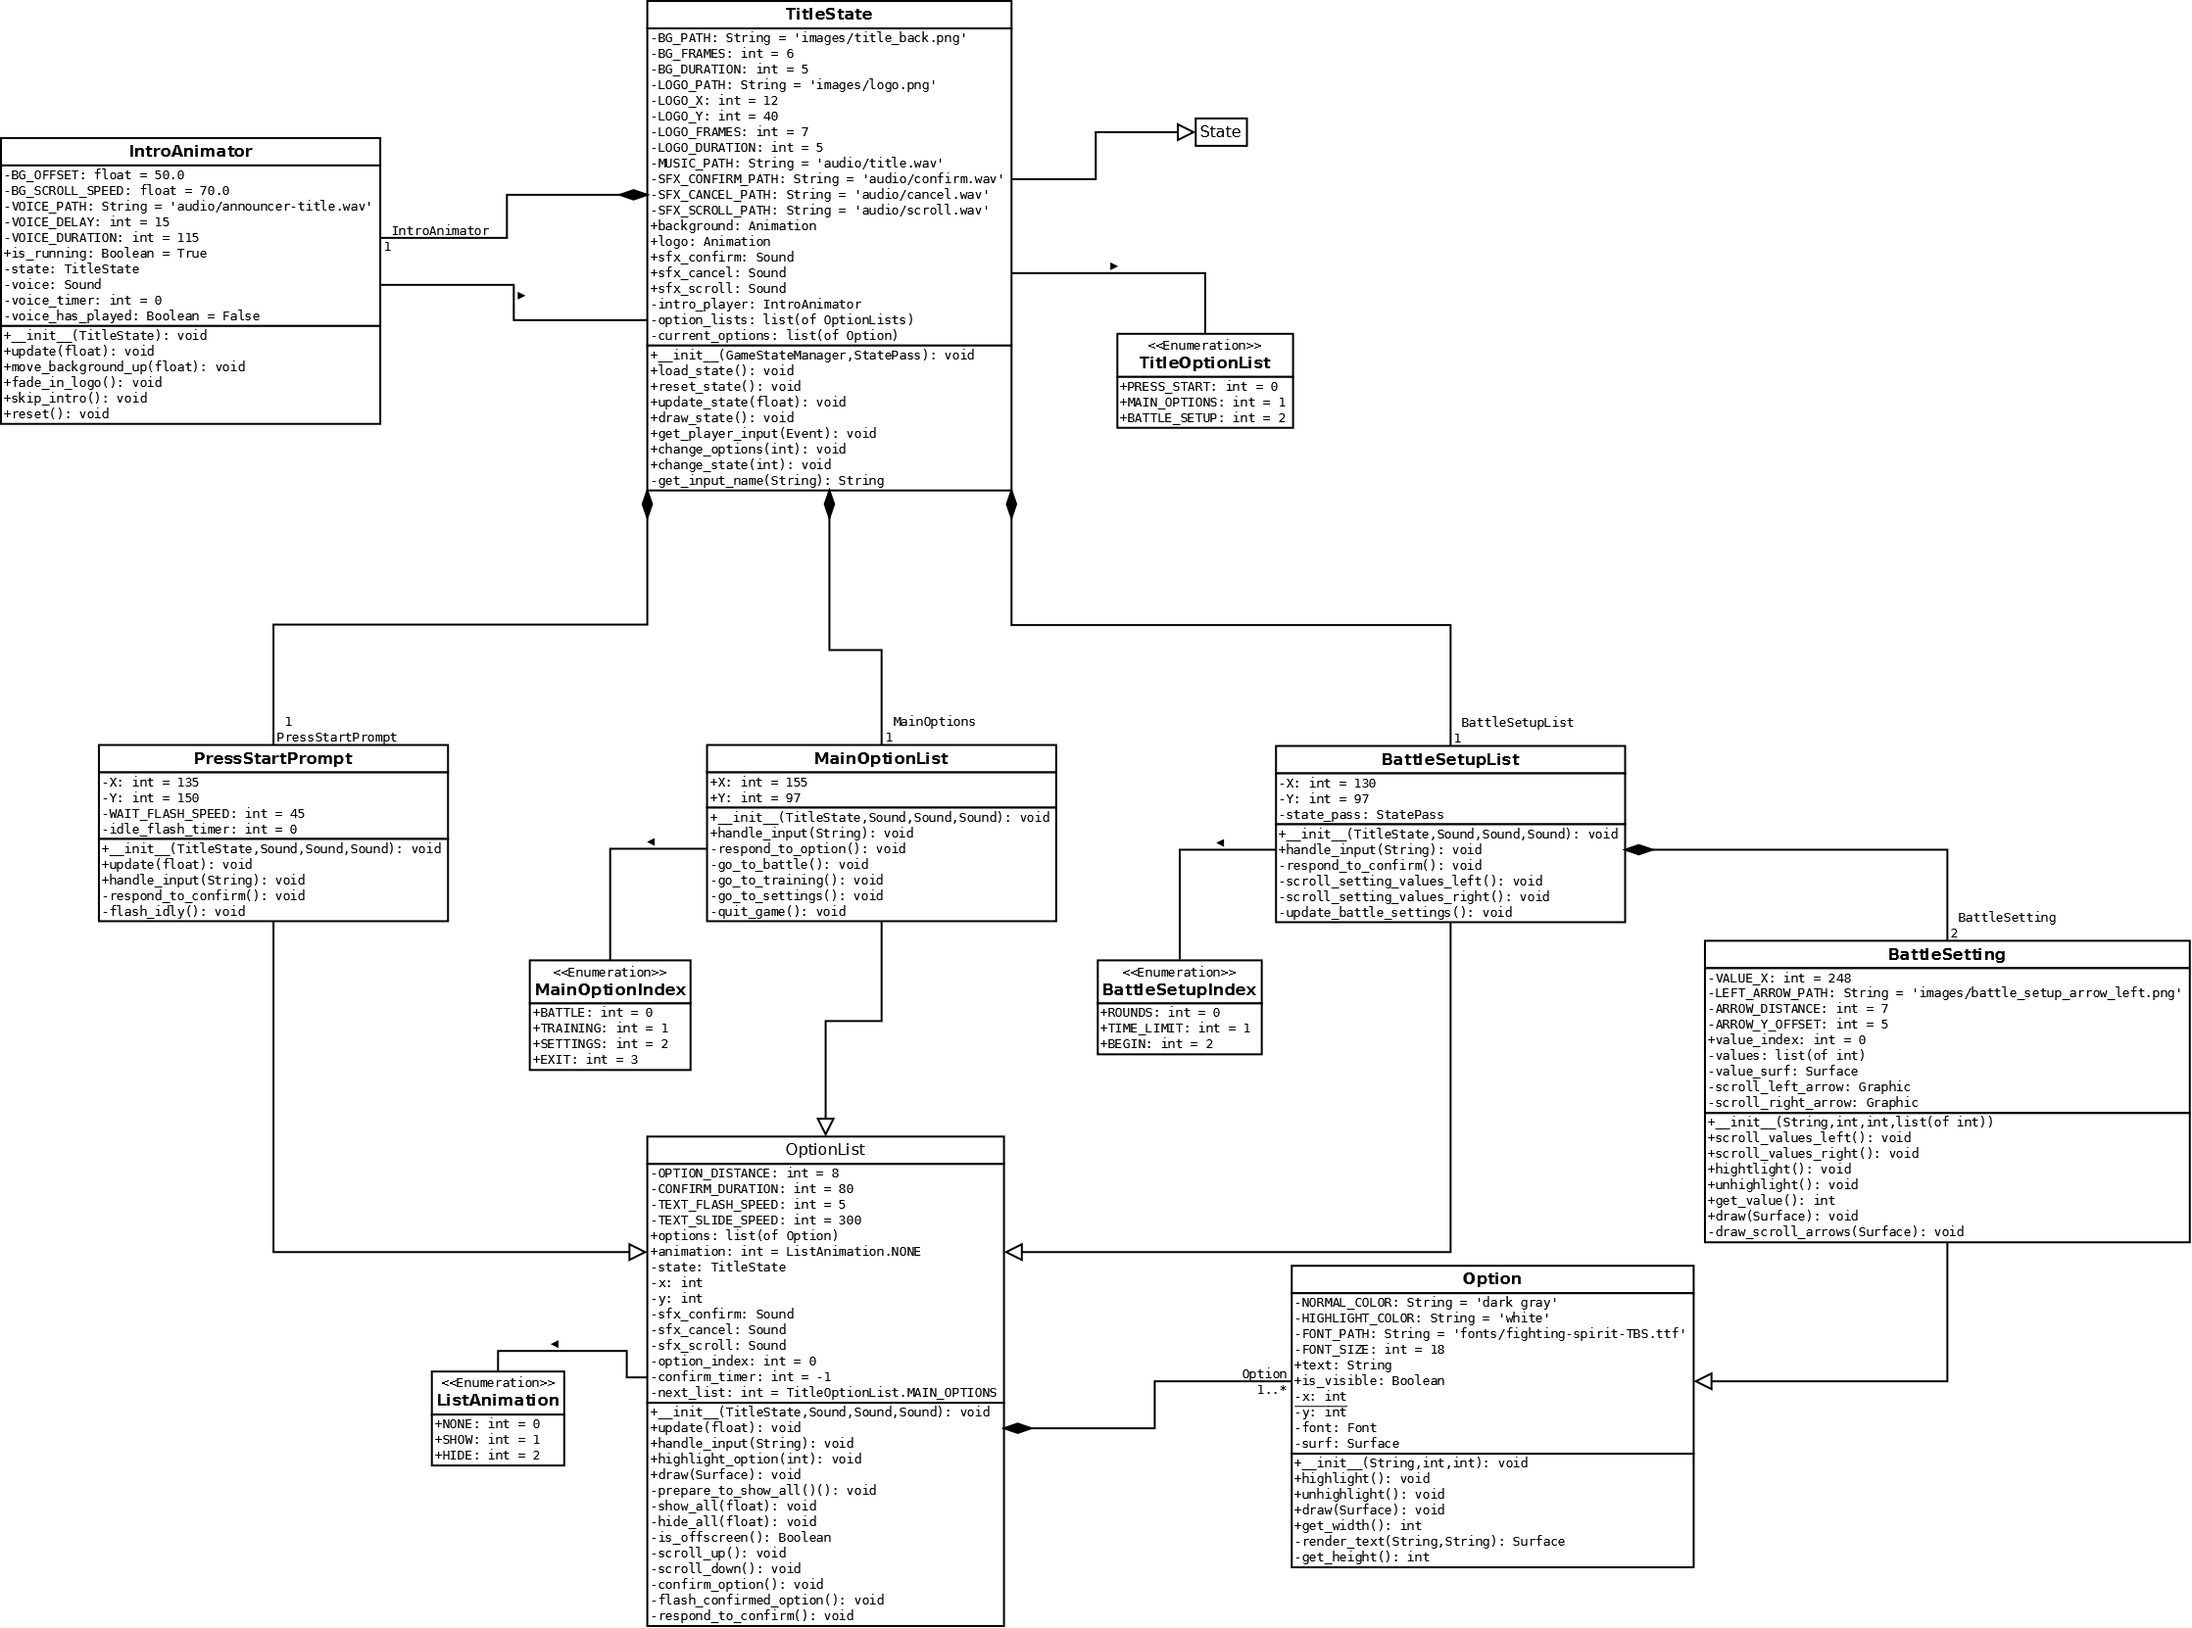
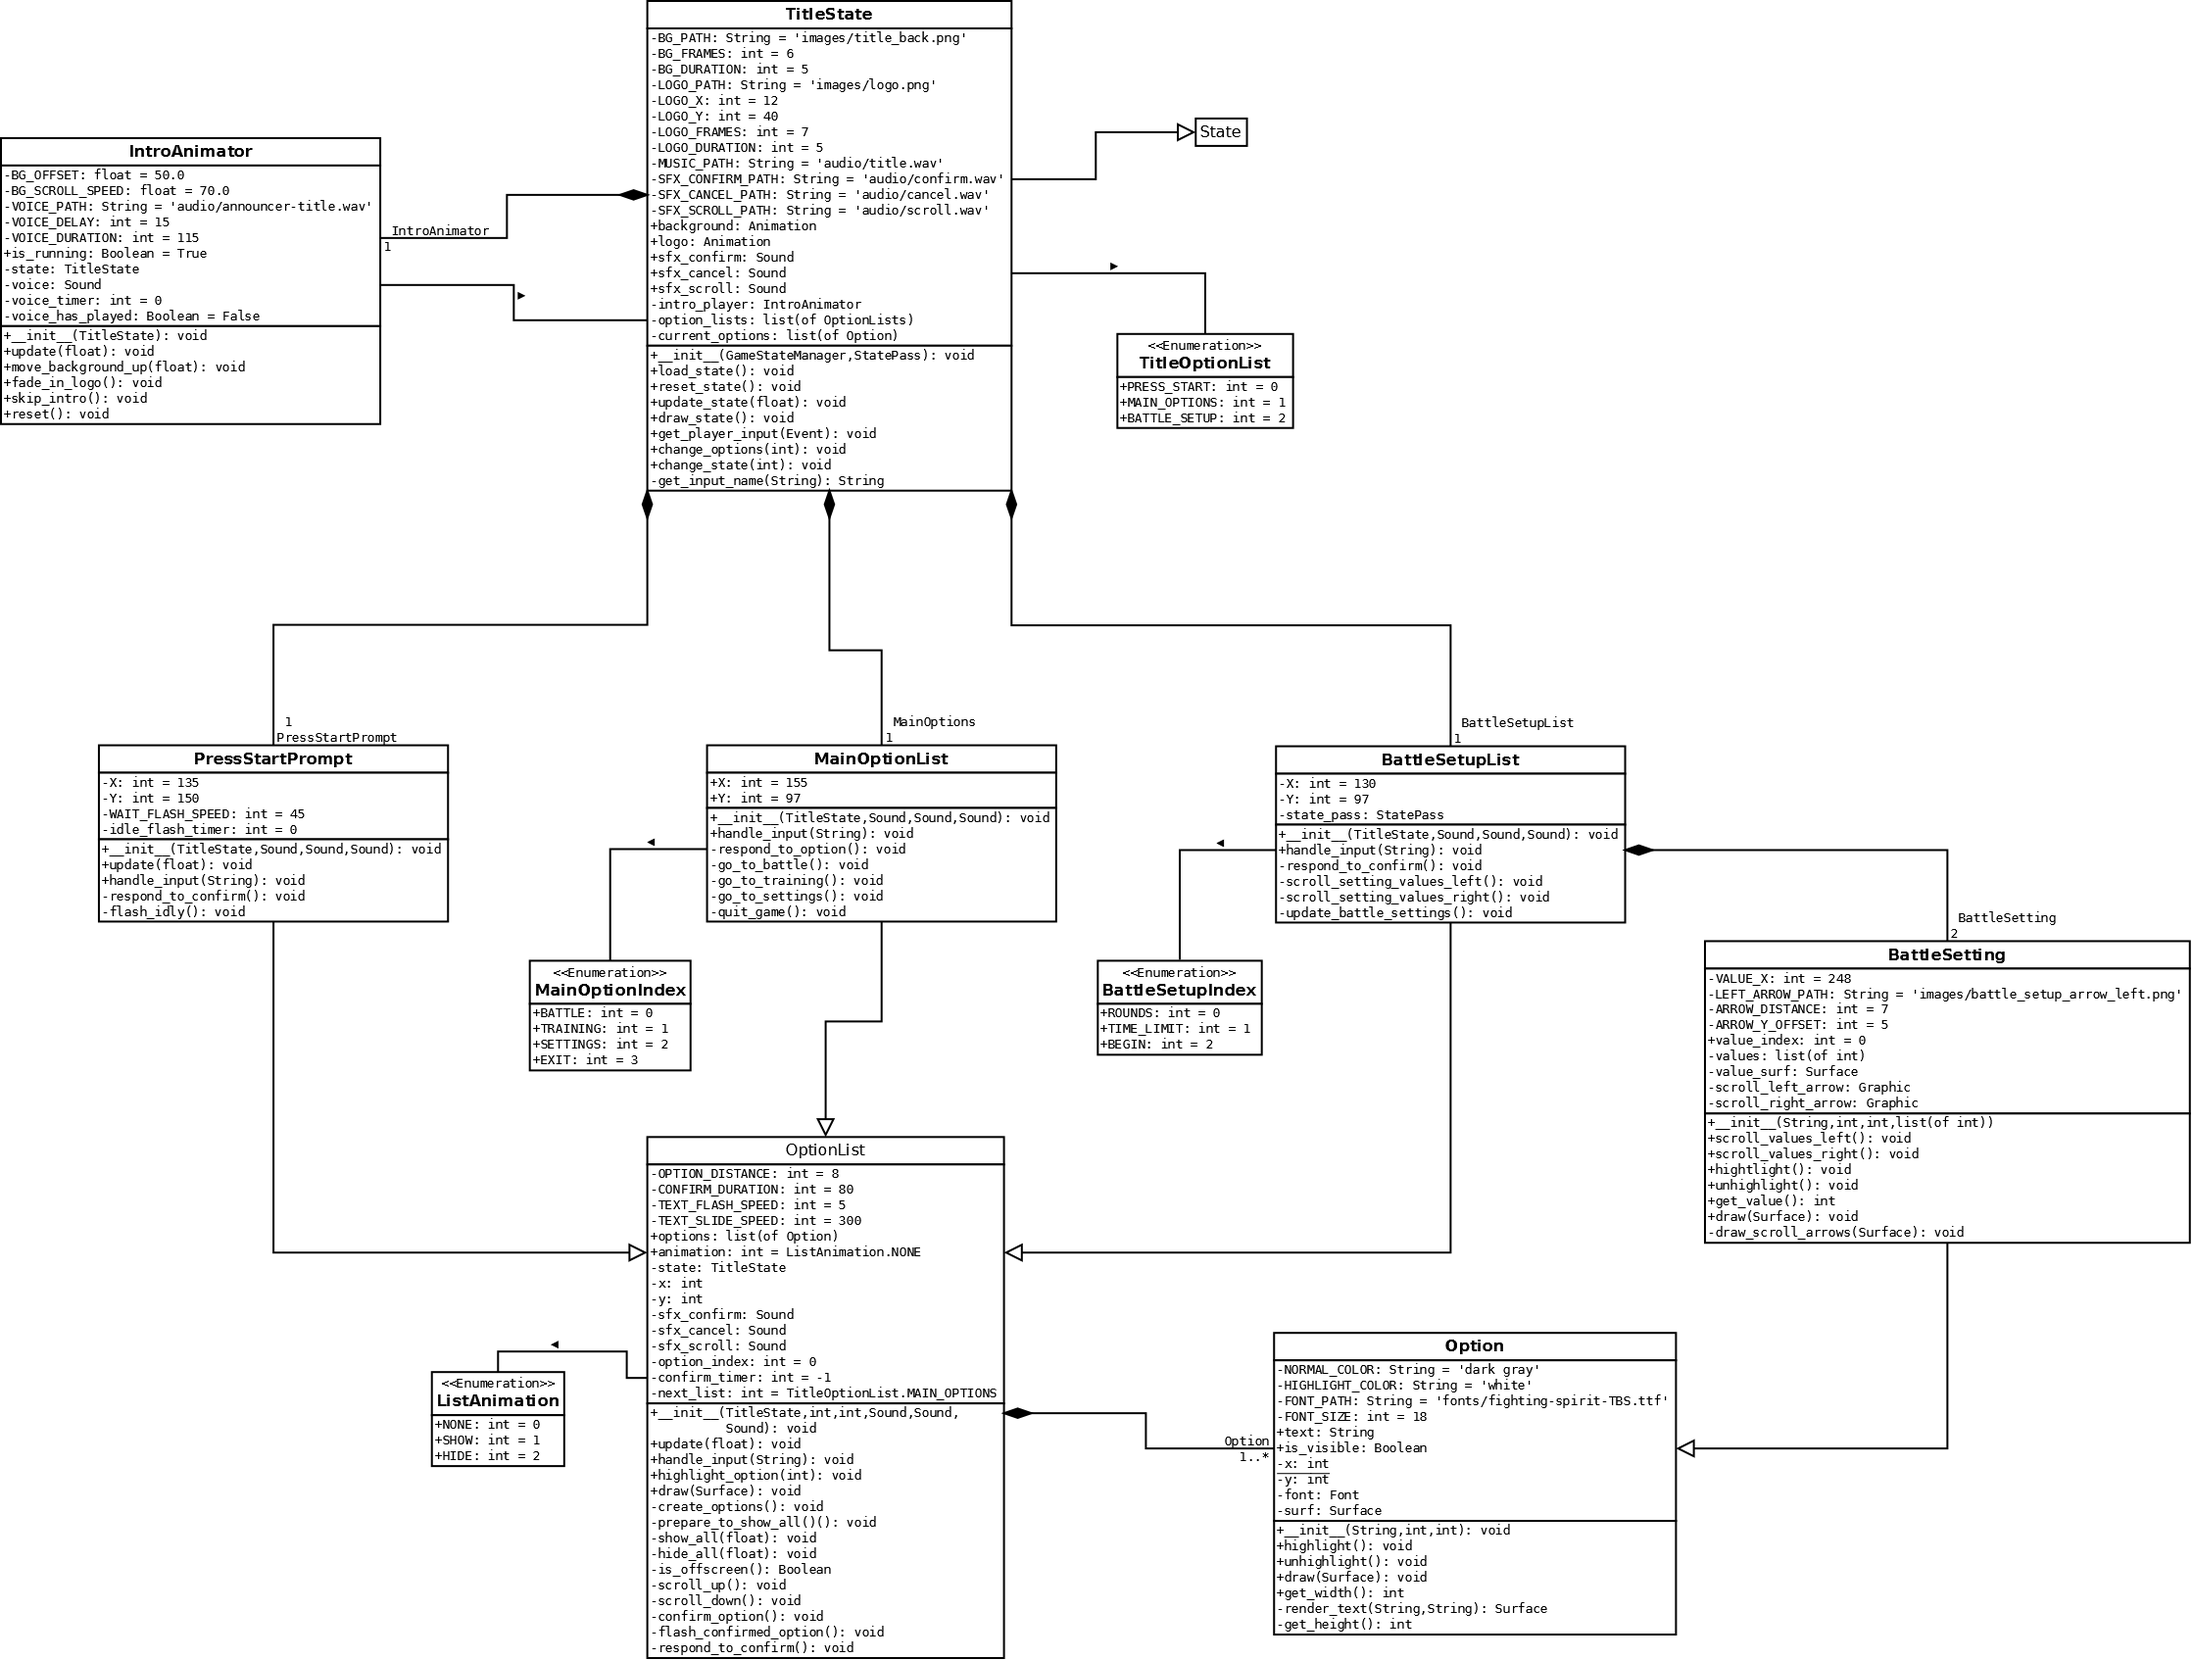
Add create_options() to OptionList and subclasses
Since every subclass of OptionList is required to create its own
Options, it makes sense to turn the creation process into its own
method. create_options() is called from OptionList's init() method, so
each subclass MUST implement create_options() in some way.

Another change to OptionList's init() is the addition of the x and y
args. This will allow the position of an OptionList to be set before
calling create_options(), since the position of each Option will be
based on the position of the list itself.

diff --git a/lib/game_states/title_state_new.py b/lib/game_states/title_state_new.py
@@ -63,19 +63,22 @@ class OptionList(object):
     TEXT_FLASH_SPEED = 5
     TEXT_SLIDE_SPEED = 300
 
-    def __init__(self, state, sfx_confirm, sfx_cancel, sfx_scroll):
+    def __init__(self, state, x, y, sfx_confirm, sfx_cancel, sfx_scroll):
         """Declare and initialize instance variables.
 
         Args:
             state: The TitleState instance that this object belongs to.
+            x: An integer for the x-position of the first Option,
+                relative to the screen.
+            y: An integer for the y-position of the first Option,
+                relative to the screen.
             sfx_confirm: A PyGame Sound for confirming an option.
             sfx_cancel: A PyGame Sound for cancelling a decision.
             sfx_scroll: A PyGame Sound for scrolling through the list.
         """
-        self.options = []
         self.state = state
-        self.x = 0
-        self.y = 0
+        self.x = x
+        self.y = y
         self.sfx_confirm = sfx_confirm
         self.sfx_cancel = sfx_cancel
         self.sfx_scroll = sfx_scroll
@@ -83,6 +86,12 @@ class OptionList(object):
         self.confirm_timer = -1
         self.animation = ListAnimation.NONE
         self.next_list = TitleOptionList.MAIN_OPTIONS
+        self.options = []
+        self.create_options()
+
+    def create_options(self):
+        """Create all of the Options within this OptionList."""
+        raise NotImplementedError
 
     def handle_input(self, input_name):
         """Respond to player input.
@@ -335,13 +344,15 @@ class PressStartPrompt(OptionList):
             sfx_cancel: A PyGame Sound for cancelling a decision.
             sfx_scroll: A PyGame Sound for scrolling through the list.
         """
-        super(PressStartPrompt, self).__init__(state, sfx_confirm,
-                                               sfx_cancel, sfx_scroll)
-        self.x = self.X
-        self.y = self.Y
+        super(PressStartPrompt, self).__init__(state, self.X, self.Y,
+                                               sfx_confirm, sfx_cancel,
+                                               sfx_scroll)
         self.next_list = TitleOptionList.MAIN_OPTIONS
-        self.options.append(Option("PRESS START", self.x, self.y))
         self.idle_flash_timer = 0
+
+    def create_options(self):
+        """Create the prompt."""
+        self.options.append(Option("PRESS START", self.x, self.y))
 
     def update(self, time):
         """Update the processes within this prompt.
